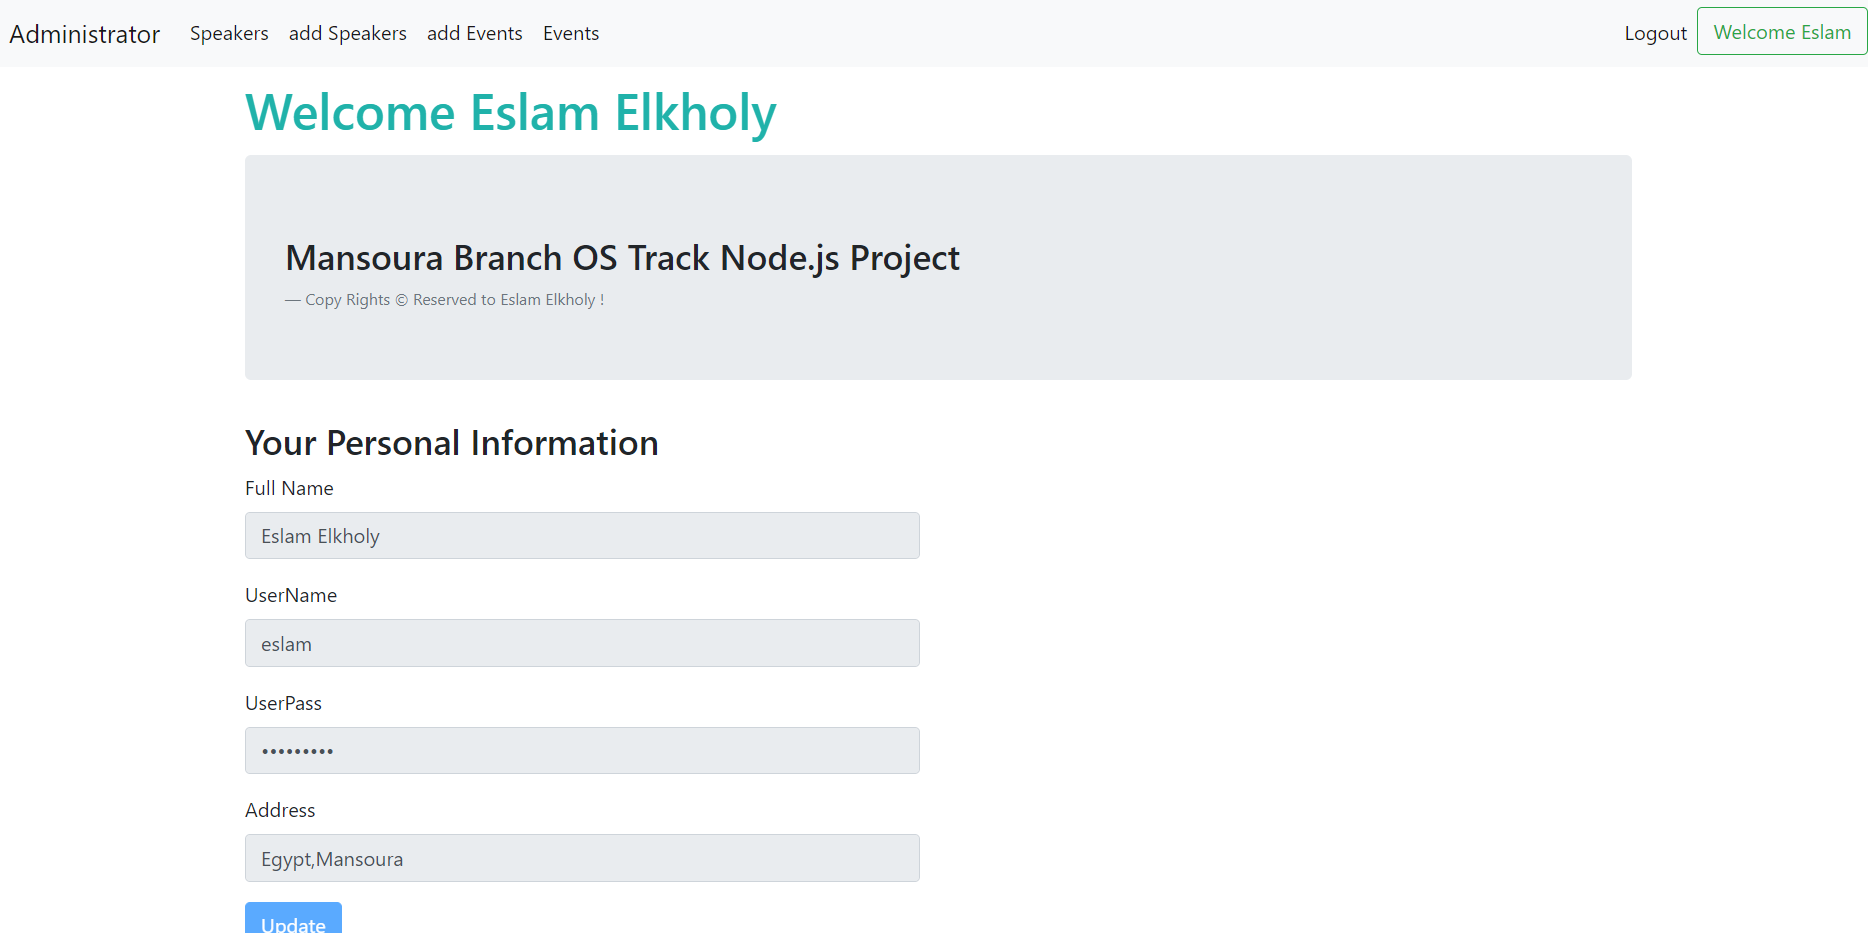
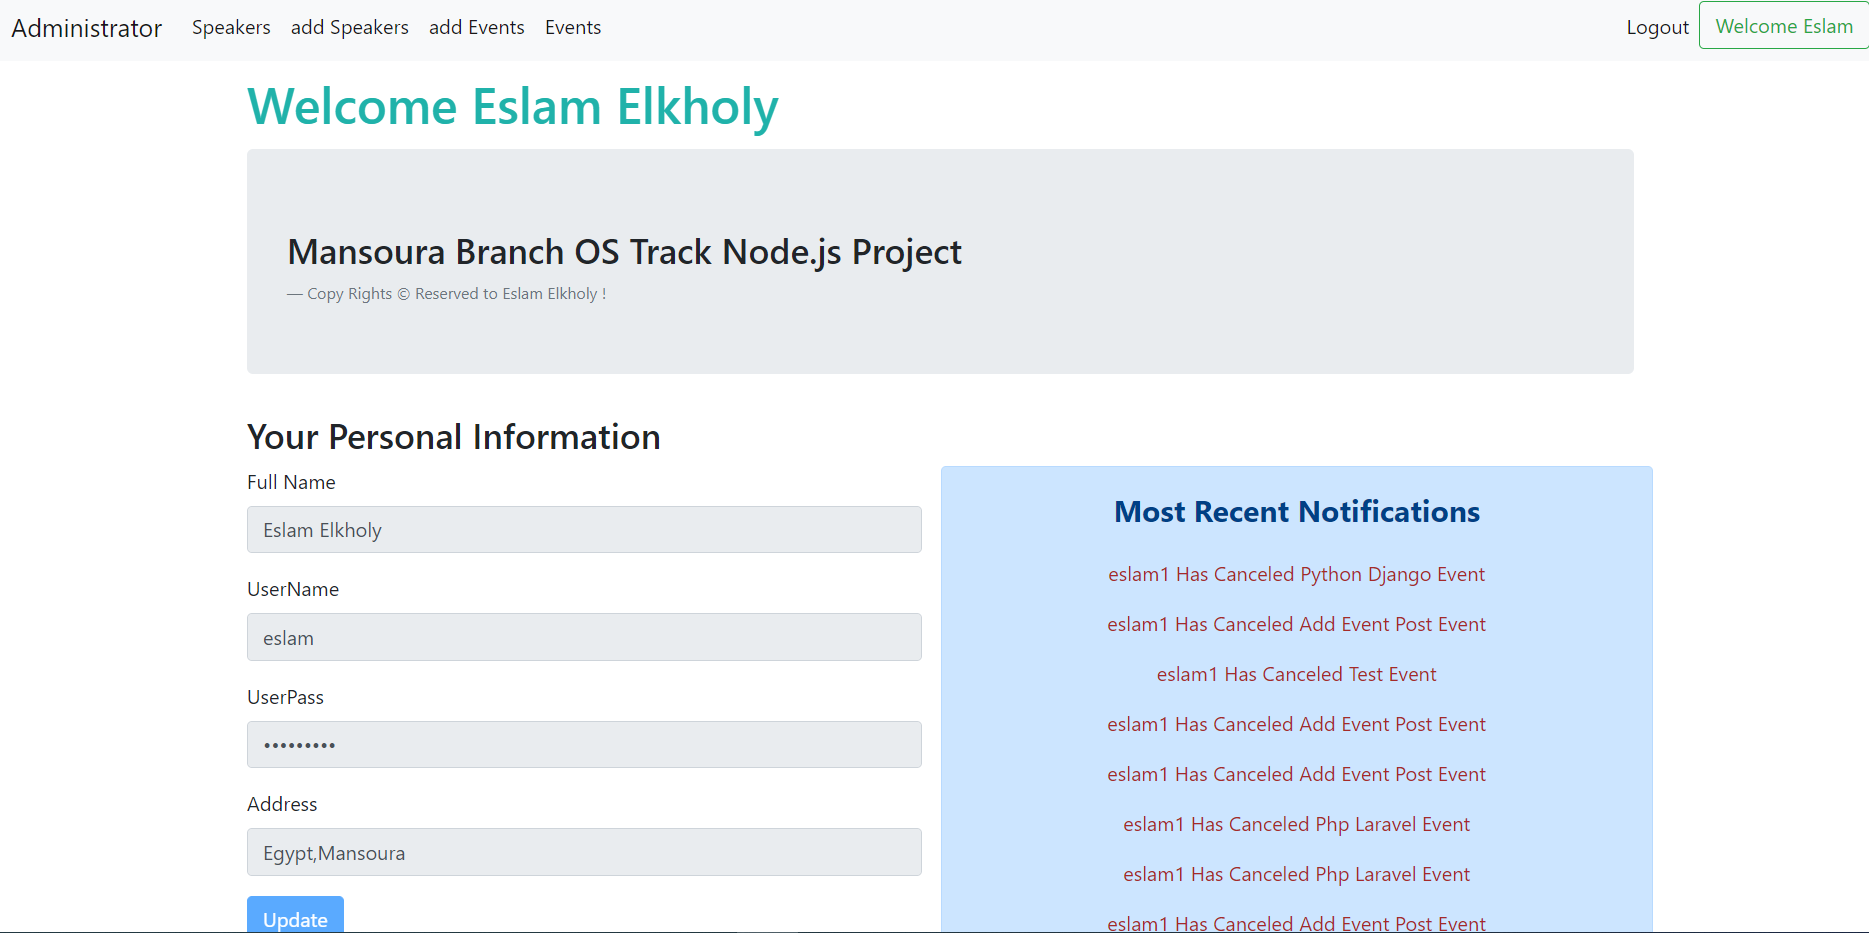
Notification Edit

diff --git a/Routers/events.js b/Routers/events.js
@@ -5,11 +5,13 @@ var moment = require("moment");
 // Get the models to Connect DB
 let mongoose = require("mongoose");
 require("./../Models/eventModel");
+require("./../Models/notificationModel");
 let eventModel = mongoose.model("event");
 //Speaker Model
 require("./../Models/speakerModel");
 let speakerModel = mongoose.model("speaker");
 
+let notificationModel = mongoose.model("notification");
 eventRouter.use((request,response,next) =>{
     if(request.session.role == "admin")
     {
@@ -82,7 +84,7 @@ eventRouter.use((request,response,next) =>{
     {
         //Cancel Specified Event
         eventRouter.post("/cancel",(request,response) =>{
-            
+            console.log(request.body);
             if(request.body.isMainSpeaker)
             {
                 eventModel.updateOne({_id : request.body.eventId,mainSpeaker : request.body.speakerId} , { $unset : {"mainSpeaker" : ""}  
@@ -95,6 +97,7 @@ eventRouter.use((request,response,next) =>{
             }
             else
             {
+                console.log(request.body);
                 eventModel.updateOne({_id : request.body.eventId,otherSpeaker : request.body.speakerId} , { $pull : {"otherSpeaker" :request.body.speakerId }  
                 }).then((data) =>{
                     response.send(request.body.speakerId + "");
@@ -102,6 +105,13 @@ eventRouter.use((request,response,next) =>{
                     console.log(err);
                 });
             }
+            let myNotification = new notificationModel(request.body);
+            myNotification.save().then((data) =>{
+                console.log("speaker Deleted")
+            }).catch((err) =>{
+                console.log(err);
+            })
+            
             
         });
         next();

diff --git a/Routers/admin.js b/Routers/admin.js
@@ -1,10 +1,19 @@
 const express = require("express");
 const adminRouter = express.Router();
+let path = require("path");
+let mongoose = require("mongoose");
+require("../Models/notificationModel");
+let myNotificationModel = mongoose.model("notification");
 adminRouter.get("/profile",(request,response,next) =>{
     if(request.session.role == "admin")
     {
-        response.render("adminProfile");
-        next();
+        //List All Notifications
+        myNotificationModel.find({}).populate({path : "speakerId eventId"}).sort({_id : -1}).limit(10).then((eventsArray)=>{
+            response.render("adminProfile",{canceledEvents : eventsArray});
+            next();
+        }).catch((err) =>{
+            console.log(err);
+        })
     }
     else
         response.redirect("/login");

diff --git a/public/js/eventList.js b/public/js/eventList.js
@@ -23,7 +23,6 @@ function cancelEvent(_speakerId,_eventId,_isMainSpeaker,obj)
         contentType:"application/json",
         data : JSON.stringify({speakerId : _speakerId, eventId: _eventId, isMainSpeaker : _isMainSpeaker}),
         success:function(data){
-            console.log(data);
             $(obj).parents("tr").remove();
         },
         error:function(error){
@@ -31,4 +30,9 @@ function cancelEvent(_speakerId,_eventId,_isMainSpeaker,obj)
         }
     });
 }
-
+function deleteOtherSpeaker(obj){
+    $("#otherSpeaker option").each(function(){
+        $(this).show();
+    });
+    $("#otherSpeaker").find("option[value='" + obj.value + "']").hide();
+}

diff --git a/Routers/authenticationRouter.js b/Routers/authenticationRouter.js
@@ -16,11 +16,13 @@ authenticationRouter.get("/login", (request, response) => {
 //Post Login Validation
 authenticationRouter.post("/login", (request, response, next) => {
     if (request.body.username == "eslam" && request.body.password == "123") {
+        // request.session._id = 0;
         request.session.role = "admin";
         response.redirect("/admin/profile");
         next();
     }
-    else {
+    else 
+    {
         speakers.findOne(request.body).then((speaker) => {
             if (speaker) {
                 request.session._id = speaker._id;

diff --git a/Models/eventModel.js b/Models/eventModel.js
@@ -1,10 +1,12 @@
 let mongoose = require("mongoose");
+var autoIncrement = require('mongoose-auto-increment'); //1. Require Auto Increment Package
 let eventSchema = new mongoose.Schema({
-    _id : Number,
     title : String,
     date : Date,
     mainSpeaker : {type : Number ,ref :"speaker"},
     otherSpeaker : [{type : Number,ref : "speaker"}]
 });
+autoIncrement.initialize(mongoose.connection); // 2. initialize autoIncrement 
+eventSchema.plugin(autoIncrement.plugin, 'event'); // 3. use autoIncrement
 //mapping
 mongoose.model("event",eventSchema);

diff --git a/Models/notificationModel.js b/Models/notificationModel.js
@@ -1,0 +1,12 @@
+let mongoose = require("mongoose");
+var autoIncrement = require('mongoose-auto-increment'); //1. Require Auto Increment Package
+let notificationSchema = new mongoose.Schema({
+    speakerId : {type : Number ,ref :"speaker"},
+    eventId : {type : Number ,ref :"event"},
+    isMainSpeaker : Boolean
+});
+autoIncrement.initialize(mongoose.connection); // 2. initialize autoIncrement 
+notificationSchema.plugin(autoIncrement.plugin, 'notification'); // 3. use autoIncrement
+
+//mapping
+mongoose.model("notification",notificationSchema);

diff --git a/server.js b/server.js
@@ -50,11 +50,13 @@ server.use((request, response, next) => {
     else
         response.redirect("/login");
 });
-server.use("/speaker", speakerRouter);
 server.use("/admin", adminRouter);
+server.use("/speaker", speakerRouter);
 server.use("/event", eventRouter);
 
-
+server.use((request,response) =>{
+    response.send("404 NOT Found");
+});
 
 //MiddleWare Error
 //This will Work When access A Files that Doesn't Exists
